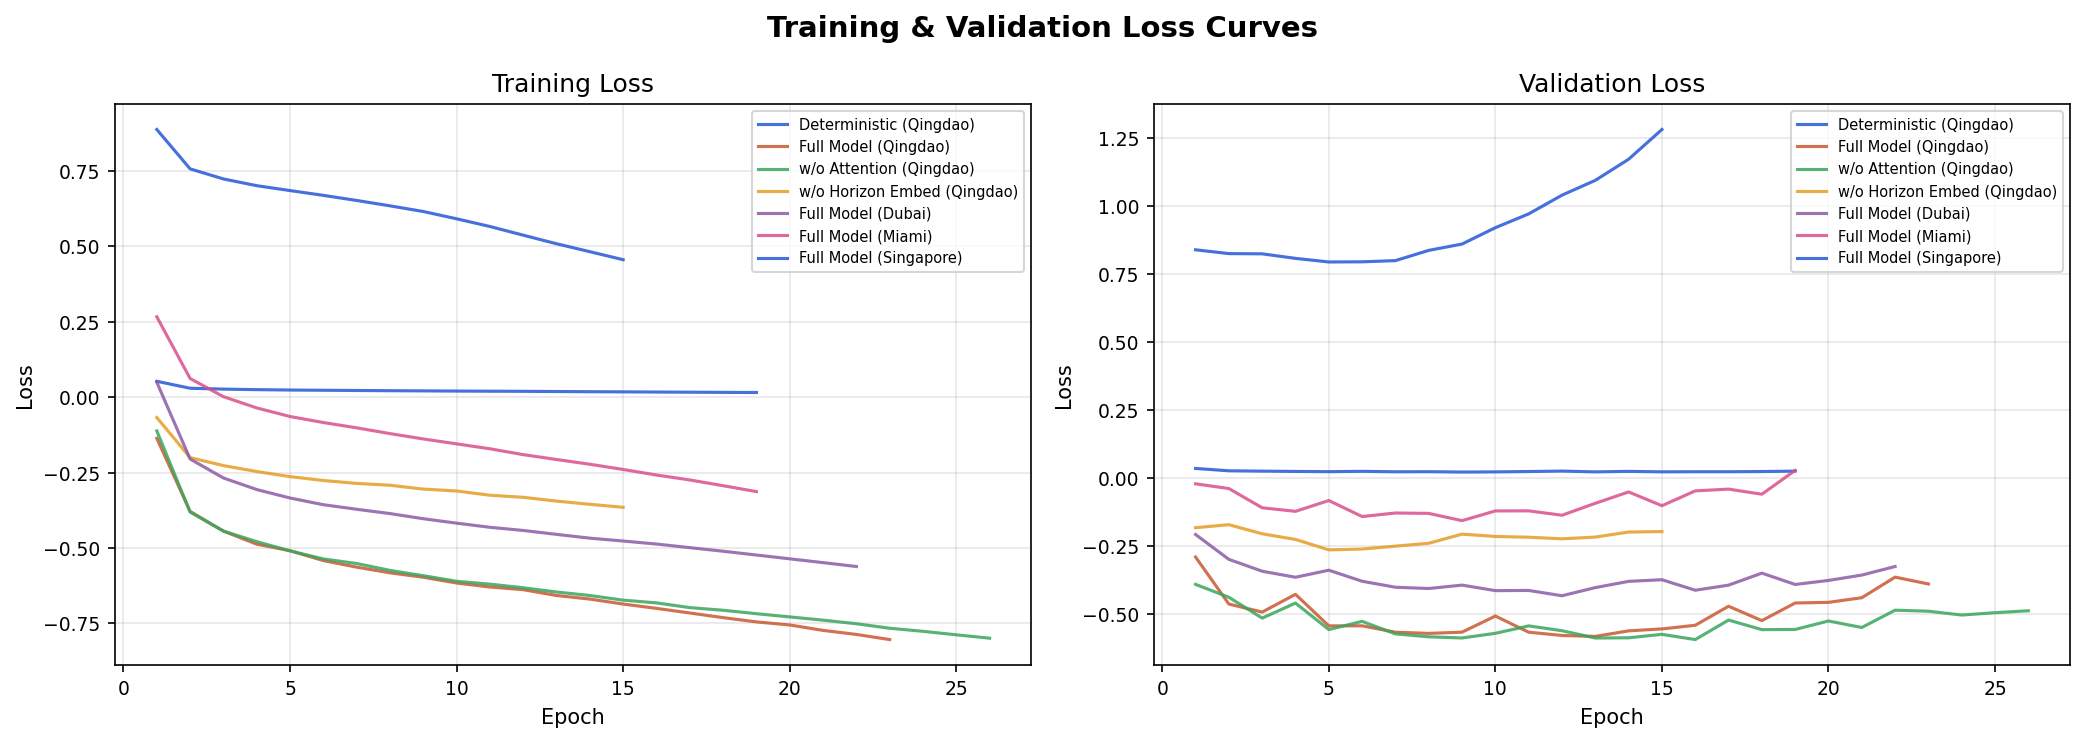
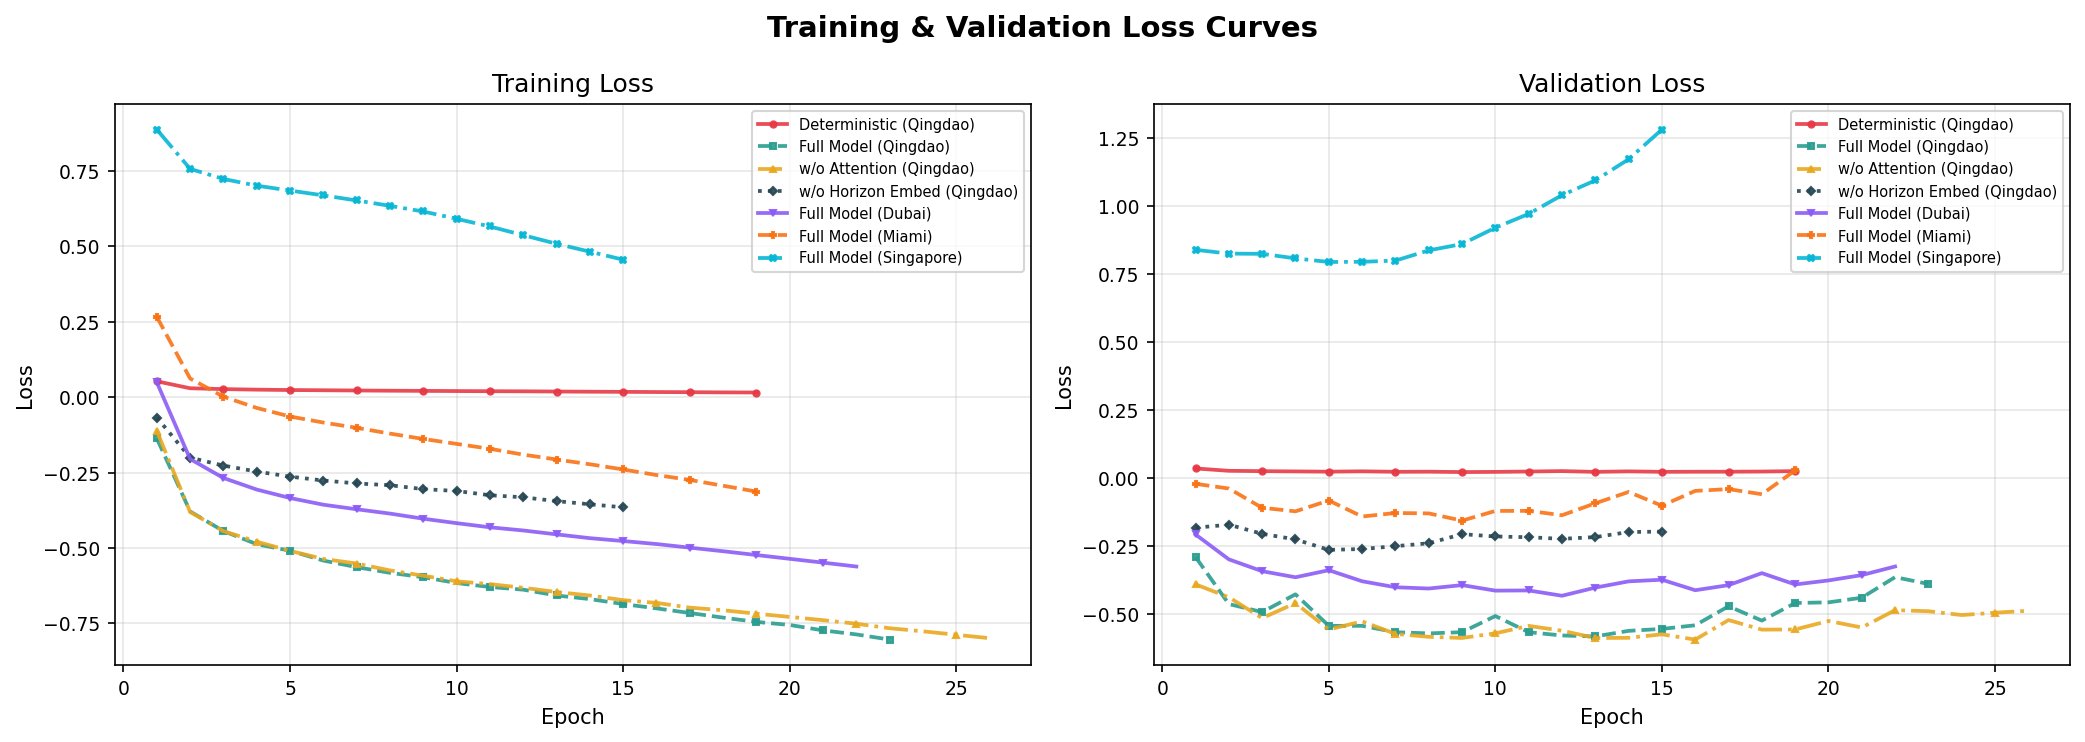
Fix training curves: use distinct colors, linestyles, and markers
Expand palette to 9 high-contrast colors and add per-curve linestyle
(solid, dashed, dash-dot, dotted) and marker shapes so all 7 model
variants are clearly distinguishable.

diff --git a/visualize.py b/visualize.py
@@ -48,7 +48,17 @@ VARIANT_DISPLAY = {
     "deterministic": "Deterministic",
 }
 
-PALETTE = ["#2657D6", "#C85831", "#3BA55D", "#E49C24", "#8B5BA6", "#D94F8C"]
+PALETTE = [
+    "#E63946",  # red
+    "#2A9D8F",  # teal
+    "#E9A820",  # amber
+    "#264653",  # dark blue-gray
+    "#8B5CF6",  # violet
+    "#F97316",  # orange
+    "#06B6D4",  # cyan
+    "#EC4899",  # pink
+    "#84CC16",  # lime
+]
 
 
 def load_train_json(path: Path) -> dict | None:
@@ -100,6 +110,9 @@ def plot_training_curves(results_dir: Path, output_dir: Path) -> None:
             label = f"{VARIANT_DISPLAY.get(variant, variant)} ({SITE_DISPLAY.get(site, site)})"
             all_variants.append((label, data["history"]))
 
+    linestyles = ["-", "--", "-.", ":", "-", "--", "-.", ":", "-"]
+    markers = ["o", "s", "^", "D", "v", "P", "X", "*", "h"]
+
     for idx, (title, ylabel) in enumerate([("Training Loss", "Loss"), ("Validation Loss", "Loss")]):
         ax = axes[idx]
         key = "train_loss" if idx == 0 else "val_loss"
@@ -107,7 +120,11 @@ def plot_training_curves(results_dir: Path, output_dir: Path) -> None:
             epochs = [h["epoch"] for h in history]
             values = [h[key] for h in history]
             color = PALETTE[i % len(PALETTE)]
-            ax.plot(epochs, values, color=color, linewidth=1.5, label=label, alpha=0.85)
+            ls = linestyles[i % len(linestyles)]
+            mk = markers[i % len(markers)]
+            ax.plot(epochs, values, color=color, linewidth=1.8, label=label,
+                    alpha=0.9, linestyle=ls, marker=mk, markersize=3,
+                    markevery=max(1, len(epochs) // 8))
         ax.set_title(title)
         ax.set_xlabel("Epoch")
         ax.set_ylabel(ylabel)
